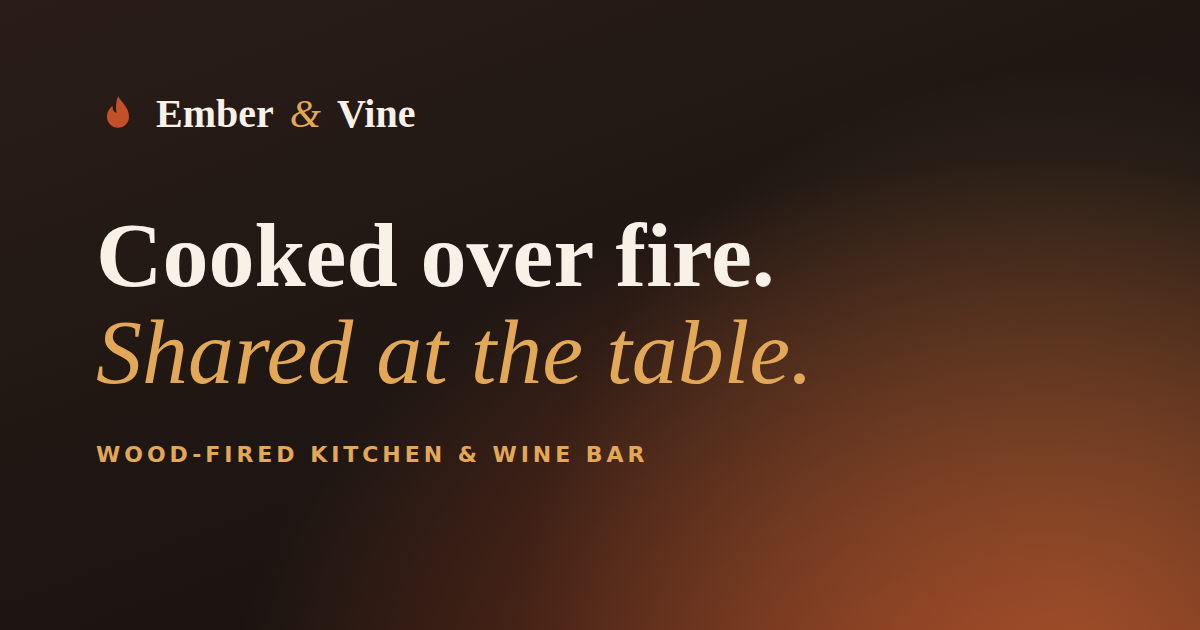
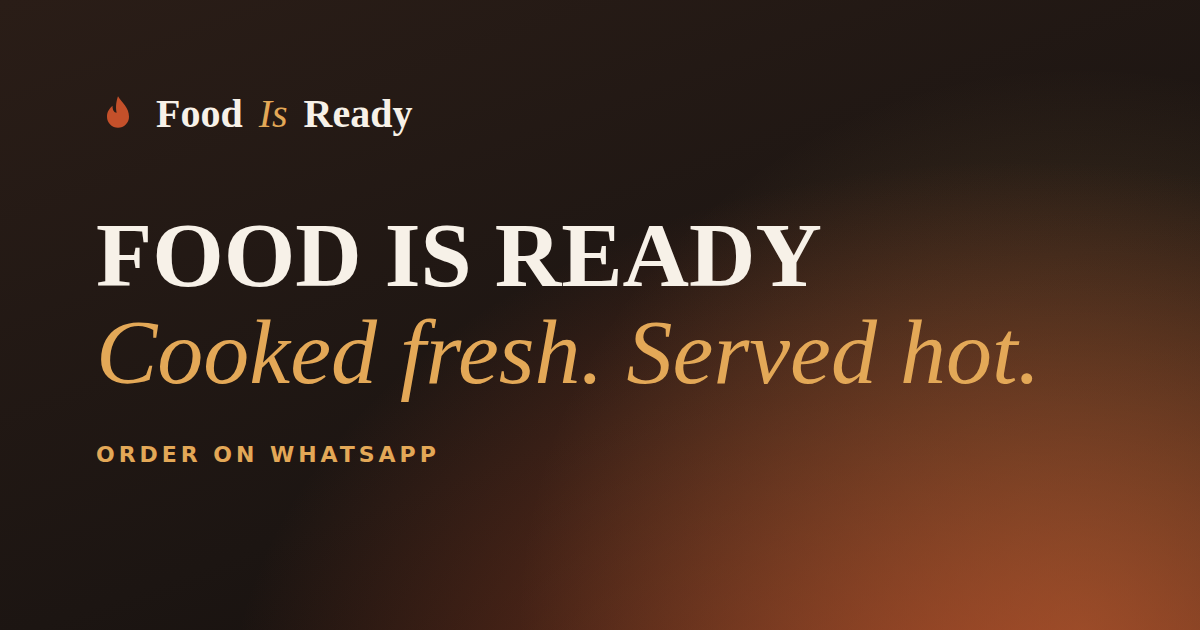
Rename site to Food Is Ready and send orders and bookings to WhatsApp
- WhatsApp number +234 705 994 6531 for orders, bookings and call links
- Homepage headline now reads FOOD IS READY; brand, titles, share image
  and manifest renamed from the Ember & Vine placeholder
- Booking form opens WhatsApp instead of emailing a placeholder address

Claude-Session: https://claude.ai/code/session_01KA7T8uTnQpbCwZ3dR5QUgy

diff --git a/index.html b/index.html
@@ -3,8 +3,8 @@
 <head>
   <meta charset="utf-8">
   <meta name="viewport" content="width=device-width, initial-scale=1">
-  <title>Ember &amp; Vine — Wood-Fired Kitchen &amp; Wine Bar</title>
-  <meta name="description" content="Ember & Vine is a neighbourhood wood-fired kitchen and wine bar serving seasonal plates, hand-made pasta and natural wines. Book a table online.">
+  <title>Food Is Ready — Fresh Food, Order on WhatsApp</title>
+  <meta name="description" content="Food Is Ready is a neighbourhood wood-fired kitchen and wine bar serving seasonal plates, hand-made pasta and natural wines. Book a table online.">
   <meta name="theme-color" content="#1c1512">
 
   <!-- EDIT: if you move to your own domain, replace every
@@ -14,14 +14,14 @@
 
   <!-- Social sharing (link previews on WhatsApp, Facebook, X, iMessage…) -->
   <meta property="og:type" content="restaurant">
-  <meta property="og:site_name" content="Ember & Vine">
-  <meta property="og:title" content="Ember & Vine — Wood-Fired Kitchen & Wine Bar">
+  <meta property="og:site_name" content="Food Is Ready">
+  <meta property="og:title" content="Food Is Ready — Order on WhatsApp">
   <meta property="og:description" content="Seasonal plates cooked over fire, hand-made pasta and natural wines.">
   <meta property="og:url" content="https://chidiclement82-ctrl.github.io/data-analysis/">
   <meta property="og:image" content="https://chidiclement82-ctrl.github.io/data-analysis/assets/images/og-image.png">
   <meta property="og:image:width" content="1200">
   <meta property="og:image:height" content="630">
-  <meta property="og:image:alt" content="Ember & Vine — Cooked over fire. Shared at the table.">
+  <meta property="og:image:alt" content="FOOD IS READY">
   <meta name="twitter:card" content="summary_large_image">
 
   <link rel="icon" href="assets/favicon.svg" type="image/svg+xml">
@@ -39,11 +39,10 @@
   {
     "@context": "https://schema.org",
     "@type": "Restaurant",
-    "name": "Ember & Vine",
+    "name": "Food Is Ready",
     "servesCuisine": ["Mediterranean", "Wood-fired", "Wine bar"],
     "priceRange": "$$",
-    "telephone": "+1-555-012-3456",
-    "email": "hello@emberandvine.com",
+    "telephone": "+234-705-994-6531",
     "address": {
       "@type": "PostalAddress",
       "streetAddress": "128 Harbour Street",
@@ -67,9 +66,9 @@
 
   <header class="site-header" id="top">
     <div class="container nav-wrap">
-      <a class="brand" href="#top" aria-label="Ember & Vine home">
+      <a class="brand" href="#top" aria-label="Food Is Ready home">
         <svg class="brand-mark" viewBox="0 0 32 32" aria-hidden="true"><path d="M16 3c3 5 8 8 8 15a8 8 0 0 1-16 0c0-4 2-6 4-8 0 3 1 5 3 5-1-5 0-9 1-12z" fill="currentColor"/></svg>
-        <span>Ember <em>&amp;</em> Vine</span>
+        <span>Food <em>Is</em> Ready</span>
       </a>
       <button class="nav-toggle" aria-expanded="false" aria-controls="site-nav">
         <span class="sr-only">Menu</span>
@@ -92,7 +91,7 @@
       <div class="hero-glow" aria-hidden="true"></div>
       <div class="container hero-inner">
         <p class="eyebrow">Wood-fired kitchen &amp; wine bar · Est. 2019</p>
-        <h1>Cooked over fire.<br><em>Shared at the table.</em></h1>
+        <h1>FOOD IS READY<br><em>Cooked fresh. Served hot.</em></h1>
         <p class="lede">Seasonal plates from local farms, pasta rolled by hand every morning, and a cellar of small-producer wines. Come hungry, stay late.</p>
         <div class="hero-actions">
           <a class="btn" href="#reserve">Reserve a Table</a>
@@ -117,7 +116,7 @@
         <div>
           <p class="eyebrow">Our Story</p>
           <h2>A small room built around one big fire</h2>
-          <p>Ember &amp; Vine started with a simple idea: cook the best produce we can find over live oak and cherry wood, and pour wines made by people, not factories.</p>
+          <p>Food Is Ready started with a simple idea: cook the best produce we can find over live oak and cherry wood, and pour wines made by people, not factories.</p>
           <p>Chef Maya Okafor and sommelier Luca Ferri opened the doors in 2019. The menu still changes with whatever the farmers bring through the back door each week.</p>
           <dl class="stats">
             <div><dt>14</dt><dd>Local farms &amp; growers</dd></div>
@@ -258,8 +257,8 @@
         <div>
           <p class="eyebrow">Reservations</p>
           <h2>Book a table</h2>
-          <p>Send us your request and we'll confirm by email or phone within a few hours. For groups larger than 8, or for same-day bookings, please call us.</p>
-          <p class="big-contact"><a href="tel:+15550123456">(555) 012-3456</a></p>
+          <p>Send us your request on WhatsApp and we'll confirm within a few hours. For groups larger than 8, or for same-day bookings, please call us.</p>
+          <p class="big-contact"><a href="tel:+2347059946531">0705 994 6531</a></p>
           <p class="muted">We hold a few bar seats every night for walk-ins.</p>
         </div>
 
@@ -312,8 +311,8 @@
             128 Harbour Street<br>
             Springfield, 00000
           </address>
-          <p><a href="tel:+15550123456">(555) 012-3456</a><br>
-             <a href="mailto:hello@emberandvine.com">hello@emberandvine.com</a></p>
+          <p><a href="tel:+2347059946531">0705 994 6531</a><br>
+             <a href="https://wa.me/2347059946531" target="_blank" rel="noopener">WhatsApp us</a></p>
 
           <h3 class="hours-title">Opening Hours <span class="open-now" id="open-now"></span></h3>
           <!-- EDIT HOURS HERE ONLY: use 24-hour times in data-open / data-close,
@@ -334,7 +333,7 @@
         <div class="map-wrap">
           <!-- EDIT MAP: replace "Times+Square,New+York" with your address, using + for spaces -->
           <iframe
-            title="Map showing Ember & Vine's location"
+            title="Map showing Food Is Ready's location"
             src="https://www.google.com/maps?q=Times+Square,New+York&output=embed"
             loading="lazy"
             referrerpolicy="no-referrer-when-downgrade"></iframe>
@@ -348,7 +347,7 @@
       <div>
         <a class="brand" href="#top">
           <svg class="brand-mark" viewBox="0 0 32 32" aria-hidden="true"><path d="M16 3c3 5 8 8 8 15a8 8 0 0 1-16 0c0-4 2-6 4-8 0 3 1 5 3 5-1-5 0-9 1-12z" fill="currentColor"/></svg>
-          <span>Ember <em>&amp;</em> Vine</span>
+          <span>Food <em>Is</em> Ready</span>
         </a>
         <p class="muted">Wood-fired kitchen &amp; wine bar.</p>
       </div>
@@ -366,7 +365,7 @@
       </div>
     </div>
     <div class="container footer-base">
-      <p class="muted">© <span id="year">2026</span> Ember &amp; Vine. All rights reserved.</p>
+      <p class="muted">© <span id="year">2026</span> Food Is Ready. All rights reserved.</p>
       <a class="muted" href="#top">Back to top ↑</a>
     </div>
   </footer>

diff --git a/assets/js/main.js b/assets/js/main.js
@@ -1,15 +1,15 @@
-/* Ember & Vine — site behaviour */
+/* Food Is Ready — site behaviour */
 (function () {
   "use strict";
 
   // ---------------------------------------------------------------------
   // SETTINGS — the only things you normally need to change in this file.
   // ---------------------------------------------------------------------
-  // Where booking requests go. Guests' email apps open addressed to this.
-  var BOOKING_EMAIL = "hello@emberandvine.com";
+  // WhatsApp number that receives booking requests, with country code.
+  // The guest's WhatsApp opens with the booking written out; they press send.
+  var BOOKING_WHATSAPP = "+234 705 994 6531";
   // Optional: paste a Formspree (formspree.io) form URL here, e.g.
-  // "https://formspree.io/f/abcdwxyz", to receive bookings straight to your
-  // inbox without the guest needing an email app. Leave "" to use email.
+  // "https://formspree.io/f/abcdwxyz", to receive bookings by email instead.
   var FORM_ENDPOINT = "";
   // Opening hours are read from the hours table in index.html.
   var LAST_SEATING_MINUTES_BEFORE_CLOSE = 90;
@@ -215,12 +215,14 @@
       return;
     }
 
-    // No form service set up: open the guest's email app with the request filled in.
-    window.location.href = "mailto:" + BOOKING_EMAIL +
-      "?subject=" + encodeURIComponent(subject) +
-      "&body=" + encodeURIComponent(body);
+    // No form service set up: open WhatsApp with the request written out.
+    var url = "https://wa.me/" + BOOKING_WHATSAPP.replace(/\D/g, "") +
+      "?text=" + encodeURIComponent(subject + "\n\n" + body);
+    var win = window.open(url, "_blank");
+    if (win) win.opener = null;
+    else window.location.href = url; // pop-up blocked: open in this tab
 
-    setStatus("Thanks, " + firstName + "! Your email app should open with your request. Just press send, and we'll confirm shortly.", "success");
+    setStatus("Thanks, " + firstName + "! WhatsApp is opening with your booking request. Just press send, and we'll confirm shortly.", "success");
   });
 
   // Footer year -----------------------------------------------------------

diff --git a/order.html b/order.html
@@ -3,8 +3,8 @@
 <head>
   <meta charset="utf-8">
   <meta name="viewport" content="width=device-width, initial-scale=1, viewport-fit=cover">
-  <title>Order on WhatsApp — Ember &amp; Vine</title>
-  <meta name="description" content="Pick your dishes and send your order to Ember & Vine on WhatsApp, for pickup or delivery.">
+  <title>Order on WhatsApp — Food Is Ready</title>
+  <meta name="description" content="Pick your dishes and send your order to Food Is Ready on WhatsApp, for pickup or delivery.">
   <meta name="theme-color" content="#1c1512">
   <link rel="canonical" href="https://chidiclement82-ctrl.github.io/data-analysis/order.html">
   <link rel="icon" href="assets/favicon.svg" type="image/svg+xml">
@@ -21,17 +21,17 @@
   <header class="app-header">
     <a class="brand" href="./">
       <svg class="brand-mark" viewBox="0 0 32 32" aria-hidden="true"><path d="M16 3c3 5 8 8 8 15a8 8 0 0 1-16 0c0-4 2-6 4-8 0 3 1 5 3 5-1-5 0-9 1-12z" fill="currentColor"/></svg>
-      <span>Ember <em>&amp;</em> Vine</span>
+      <span>Food <em>Is</em> Ready</span>
     </a>
     <!-- EDIT: phone number -->
-    <a class="app-header-link" href="tel:+15550123456">Call us</a>
+    <a class="app-header-link" href="tel:+2347059946531">Call us</a>
   </header>
 
   <main class="app-main" id="main">
     <section class="app-state" id="state-unavailable" hidden>
       <div class="app-card">
         <h1>Online ordering is coming soon</h1>
-        <p>In the meantime, call us on <a href="tel:+15550123456">(555) 012-3456</a> to order for pickup.</p>
+        <p>In the meantime, call us on <a href="tel:+2347059946531">0705 994 6531</a> to order for pickup.</p>
         <a class="btn" href="./">Back to the website</a>
       </div>
     </section>

diff --git a/404.html b/404.html
@@ -3,7 +3,7 @@
 <head>
   <meta charset="utf-8">
   <meta name="viewport" content="width=device-width, initial-scale=1">
-  <title>Page not found — Ember &amp; Vine</title>
+  <title>Page not found — Food Is Ready</title>
   <meta name="robots" content="noindex">
   <link rel="icon" href="assets/favicon.svg" type="image/svg+xml">
   <link href="https://fonts.googleapis.com/css2?family=Cormorant+Garamond:ital,wght@0,600;1,500&family=Inter:wght@400;600&display=swap" rel="stylesheet">

diff --git a/assets/js/order.js b/assets/js/order.js
@@ -5,8 +5,8 @@
 // e.g. "+234 801 234 5678". Spaces and dashes are fine.
 // While it's empty, the page shows "Online ordering is coming soon".
 // ---------------------------------------------------------------------------
-const WHATSAPP_NUMBER = "";
-const RESTAURANT_NAME = "Ember & Vine";
+const WHATSAPP_NUMBER = "+234 705 994 6531";
+const RESTAURANT_NAME = "Food Is Ready";
 
 const $ = (id) => document.getElementById(id);
 const digits = WHATSAPP_NUMBER.replace(/\D/g, "");

diff --git a/README.md b/README.md
@@ -1,4 +1,4 @@
-# Ember & Vine — Restaurant Website
+# Food Is Ready — Restaurant Website
 
 A fast, mobile-friendly restaurant website built with plain HTML, CSS and JavaScript. It has no build step and no framework. Edit the files, push, and the site updates.
 
@@ -37,7 +37,7 @@ Everything you'd normally change is in the files below. Look for comments marked
 
 | To change… | Find… |
 |---|---|
-| Restaurant name | `Ember` / `Vine` in the header, footer, `<title>` and share tags at the top |
+| Restaurant name | `Food <em>Is</em> Ready` in the header, footer, `<title>` and share tags at the top |
 | Headline and intro | the `HERO` section |
 | Your story | the `ABOUT` section |
 | Menu items and prices | the `MENU` section. Each dish is one `<li>`: copy a line to add a dish, delete a line to remove one. Tags: `V` vegetarian, `VG` vegan, `GF` gluten-free |
@@ -58,8 +58,8 @@ Everything you'd normally change is in the files below. Look for comments marked
 
 The `SETTINGS` block at the top:
 
-- `BOOKING_EMAIL`: where booking requests go.
-- `FORM_ENDPOINT`: optional, but recommended. By default, "Request Booking" opens the guest's email app with the booking already written, and they press send. To receive bookings straight to your inbox instead:
+- `BOOKING_WHATSAPP`: the WhatsApp number that receives booking requests. "Request Booking" opens the guest's WhatsApp with the booking already written, and they press send.
+- `FORM_ENDPOINT`: optional. To receive bookings by email instead:
   1. Make a free form at [formspree.io](https://formspree.io).
   2. Paste its URL here, e.g. `"https://formspree.io/f/abcdwxyz"`.
   3. Bookings then arrive by email with no action from the guest. Spam protection is built in.
